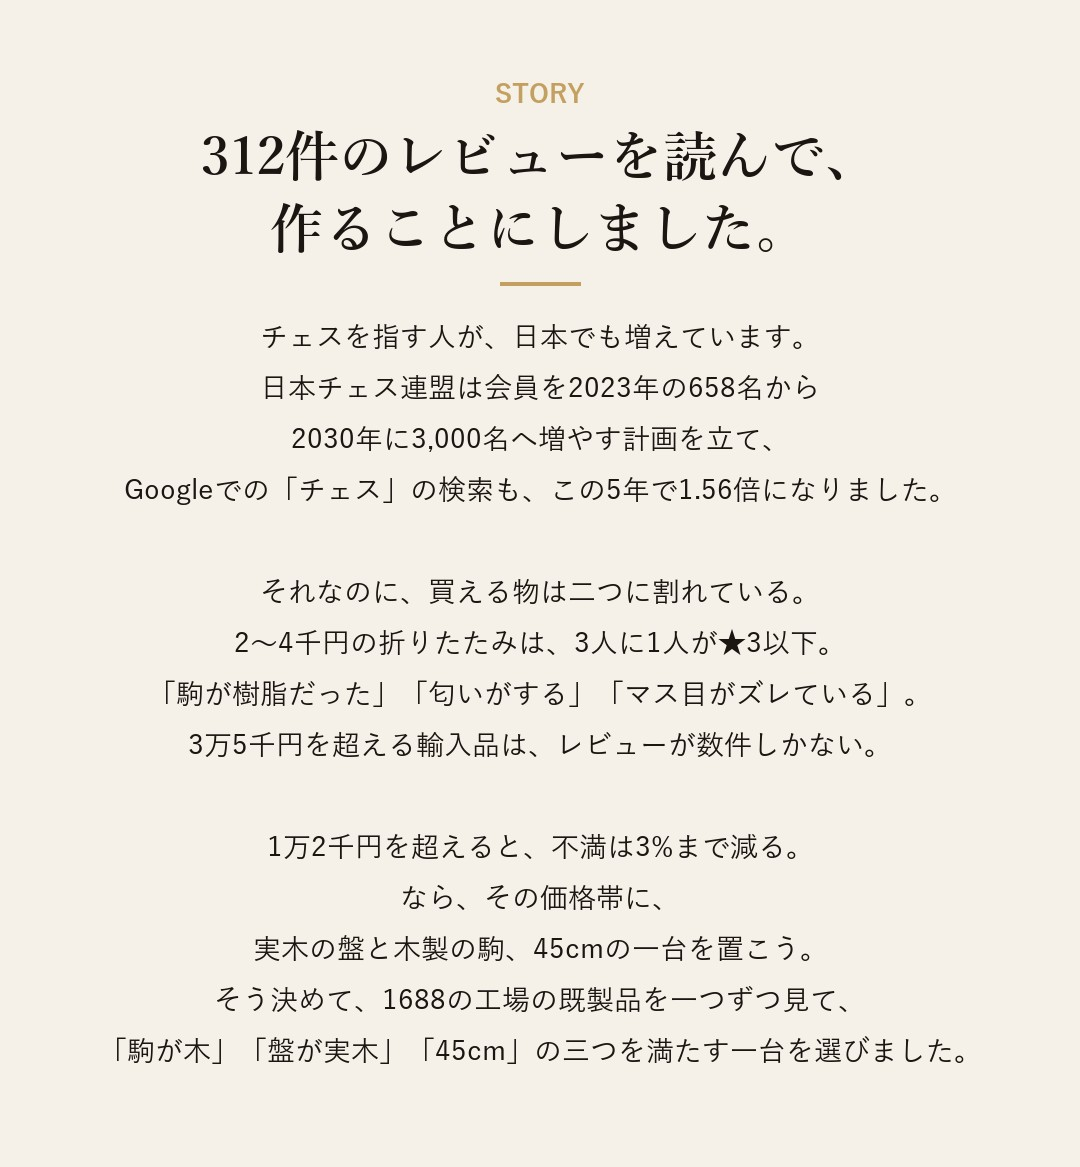
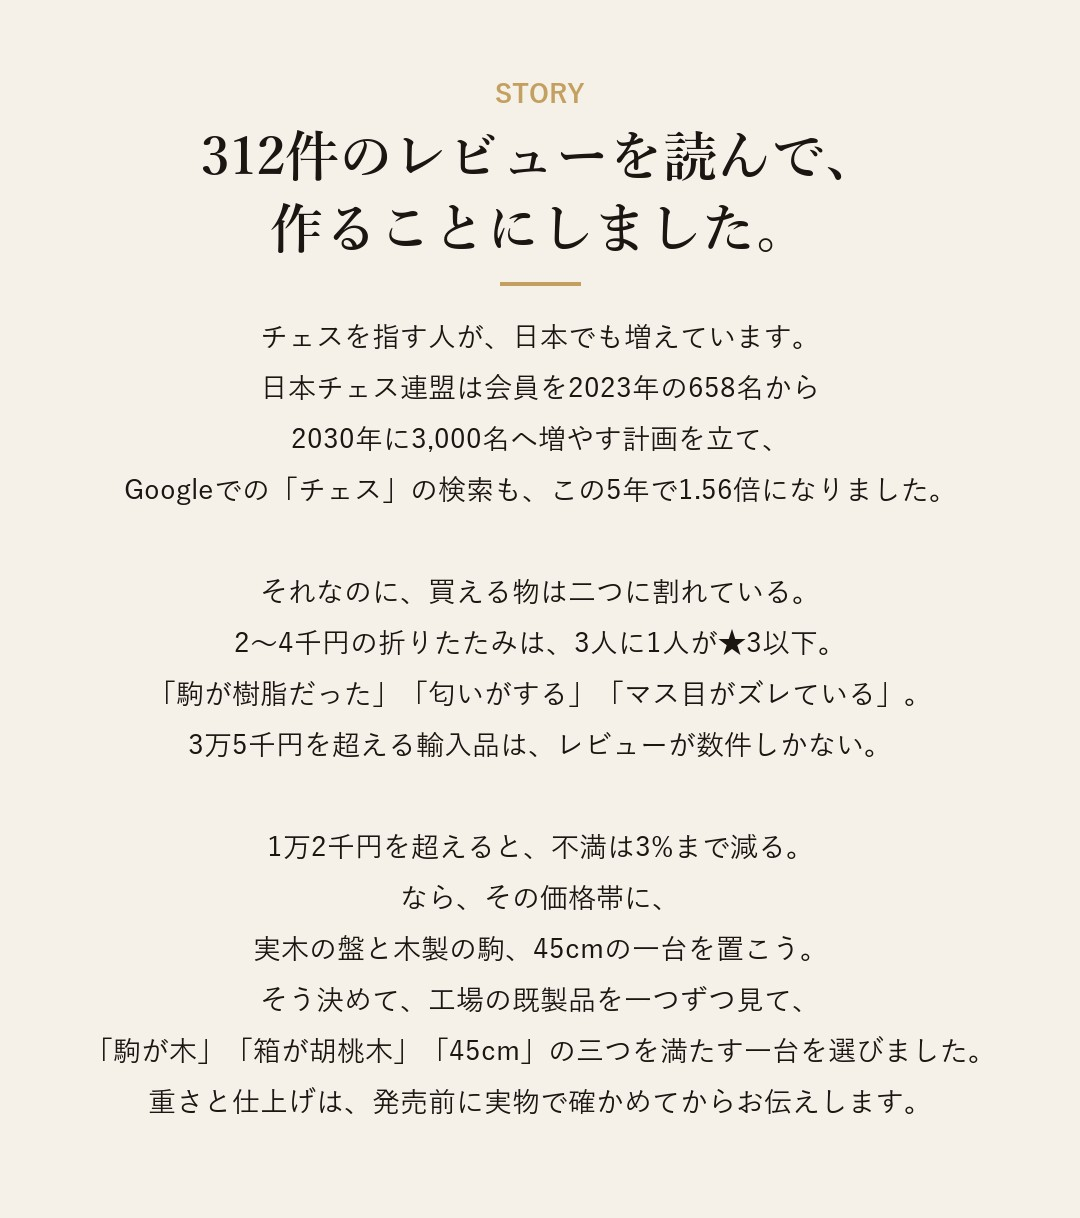
chess-a: 1688の仕様(45x45x3.5cm・王10.6cm・胡桃木の箱・木製駒・予備クイーン2個)に合わせて記述を修正

diff --git a/chess-a/index.html b/chess-a/index.html
@@ -4,9 +4,9 @@
 <meta charset="utf-8">
 <meta name="viewport" content="width=device-width,initial-scale=1">
 <meta name="robots" content="noindex">
-<title>書斎に、一手を。｜実木のチェスセット 先行登録</title>
-<meta name="description" content="45cmの実木チェスセット。発売前の先行登録(LINE)のご案内です。">
-<meta property="og:title" content="書斎に、一手を。｜実木のチェスセット">
+<title>書斎に、一手を。｜木製チェスセット 先行登録</title>
+<meta name="description" content="45cm・木製の駒と胡桃木の箱のチェスセット。発売前の先行登録(LINE)のご案内です。">
+<meta property="og:title" content="書斎に、一手を。｜木製チェスセット">
 <meta property="og:image" content="lp01.jpg">
 <style>
 *{box-sizing:border-box;margin:0;padding:0}
@@ -33,19 +33,19 @@ details ul{padding-left:18px}
 </head>
 <body>
 <main>
-<img src="lp01.jpg?v=202611032248" alt="一番上">
-<img src="lp02.jpg?v=202611032248" alt="データ" loading="lazy">
-<img src="lp03.jpg?v=202611032248" alt="コンセプト" loading="lazy">
-<img src="lp04.jpg?v=202611032248" alt="悩み" loading="lazy">
-<img src="lp05.jpg?v=202611032248" alt="ストーリー 312件のレビューを読んで作った" loading="lazy">
-<img src="lp06.jpg?v=202611032248" alt="商品" loading="lazy">
-<img src="lp07.jpg?v=202611032248" alt="仕様" loading="lazy">
-<img src="lp08.jpg?v=202611032248" alt="ディテール" loading="lazy">
-<img src="lp09.jpg?v=202611032248" alt="こんな人に" loading="lazy">
-<img src="lp10.jpg?v=202611032248" alt="発売と価格" loading="lazy">
-<img src="lp11.jpg?v=202611032248" alt="なぜ先行登録" loading="lazy">
-<img src="lp12.jpg?v=202611032248" alt="安心して登録するために" loading="lazy">
-<a href="#" class="line-link"><img src="lp13.jpg?v=202611032248" alt="LINE登録" loading="lazy"></a>
+<img src="lp01.jpg?v=202611032252" alt="一番上">
+<img src="lp02.jpg?v=202611032252" alt="データ" loading="lazy">
+<img src="lp03.jpg?v=202611032252" alt="コンセプト" loading="lazy">
+<img src="lp04.jpg?v=202611032252" alt="悩み" loading="lazy">
+<img src="lp05.jpg?v=202611032252" alt="ストーリー 312件のレビューを読んで作った" loading="lazy">
+<img src="lp06.jpg?v=202611032252" alt="商品" loading="lazy">
+<img src="lp07.jpg?v=202611032252" alt="仕様" loading="lazy">
+<img src="lp08.jpg?v=202611032252" alt="ディテール" loading="lazy">
+<img src="lp09.jpg?v=202611032252" alt="こんな人に" loading="lazy">
+<img src="lp10.jpg?v=202611032252" alt="発売と価格" loading="lazy">
+<img src="lp11.jpg?v=202611032252" alt="なぜ先行登録" loading="lazy">
+<img src="lp12.jpg?v=202611032252" alt="安心して登録するために" loading="lazy">
+<a href="#" class="line-link"><img src="lp13.jpg?v=202611032252" alt="LINE登録" loading="lazy"></a>
 
 <section class="info">
   <h2>運営者情報</h2>
